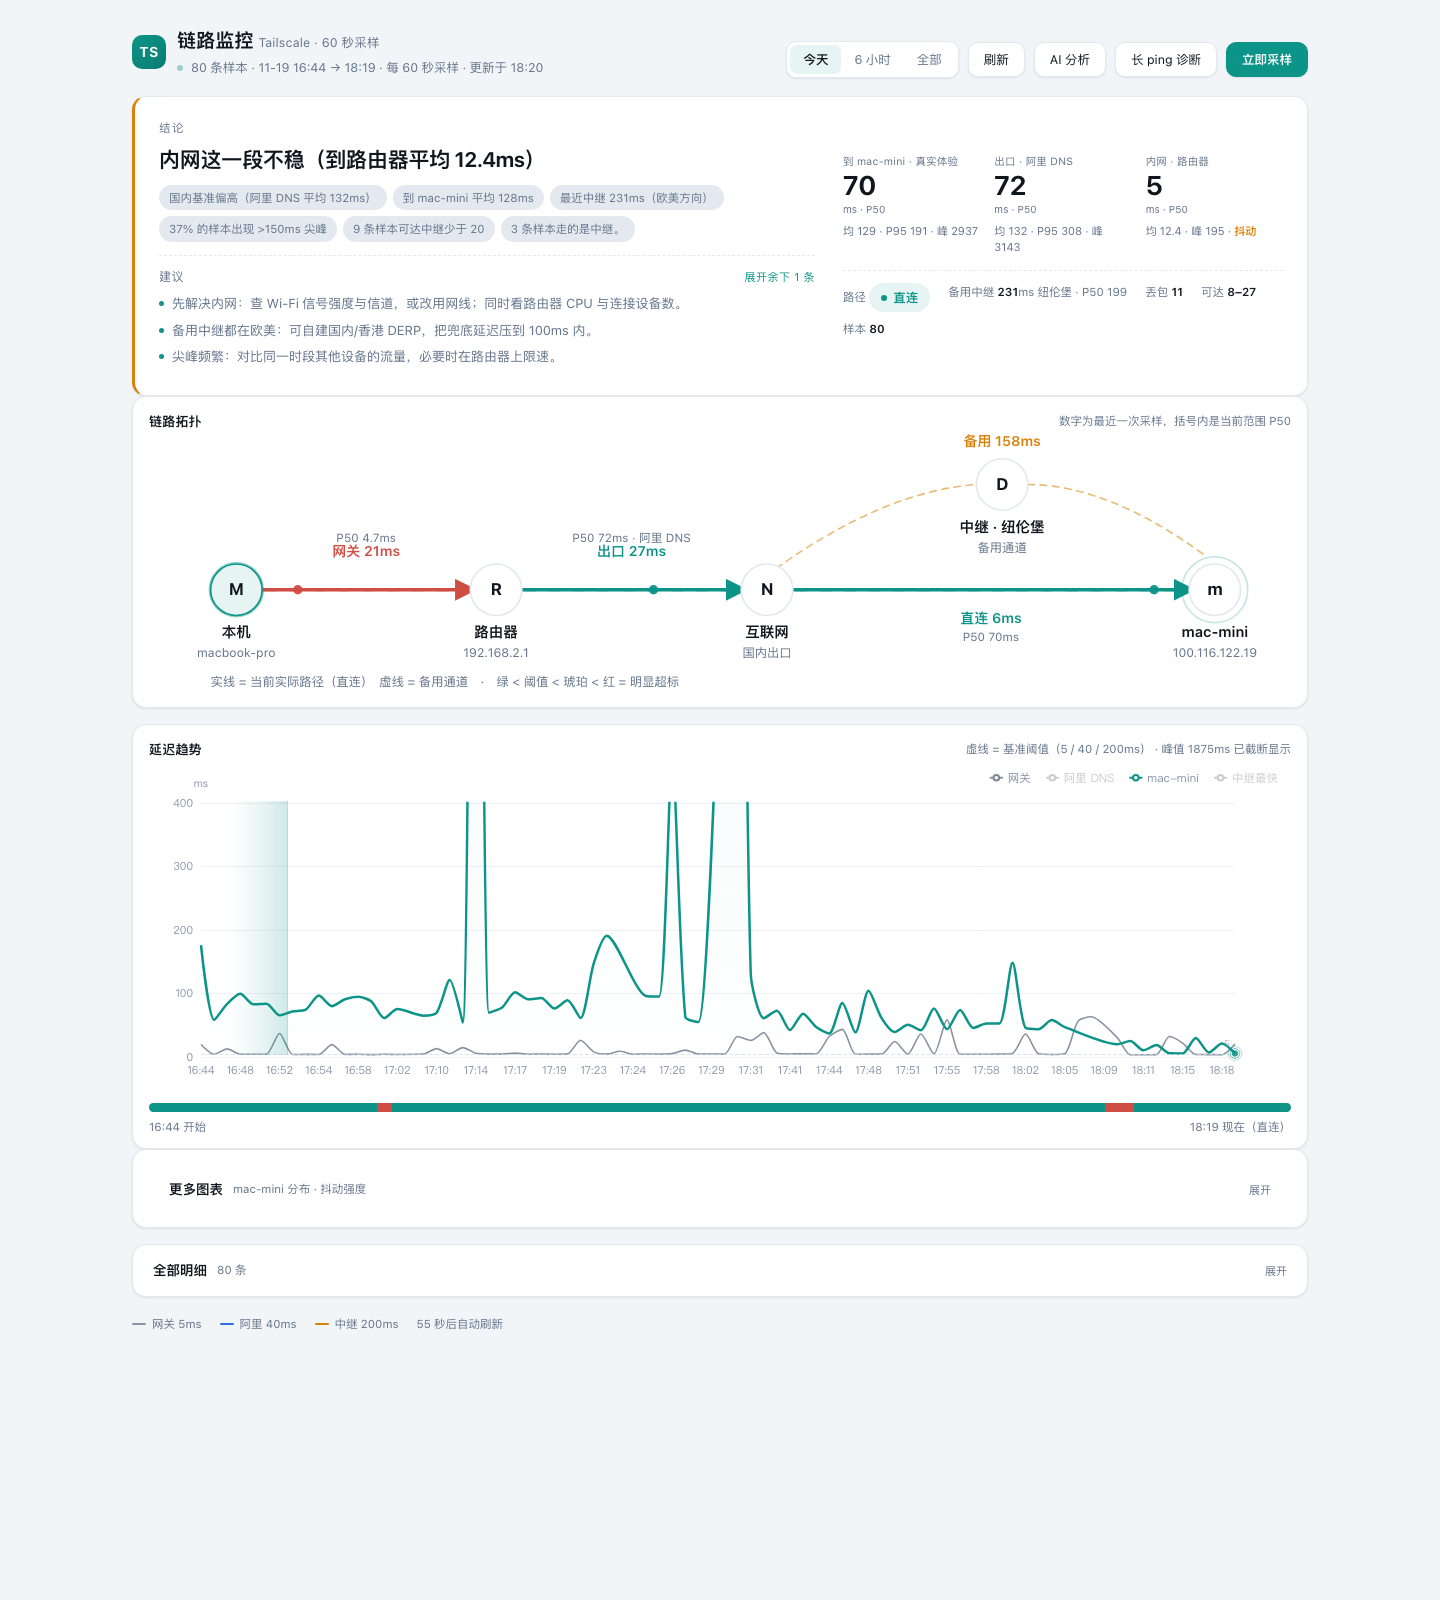
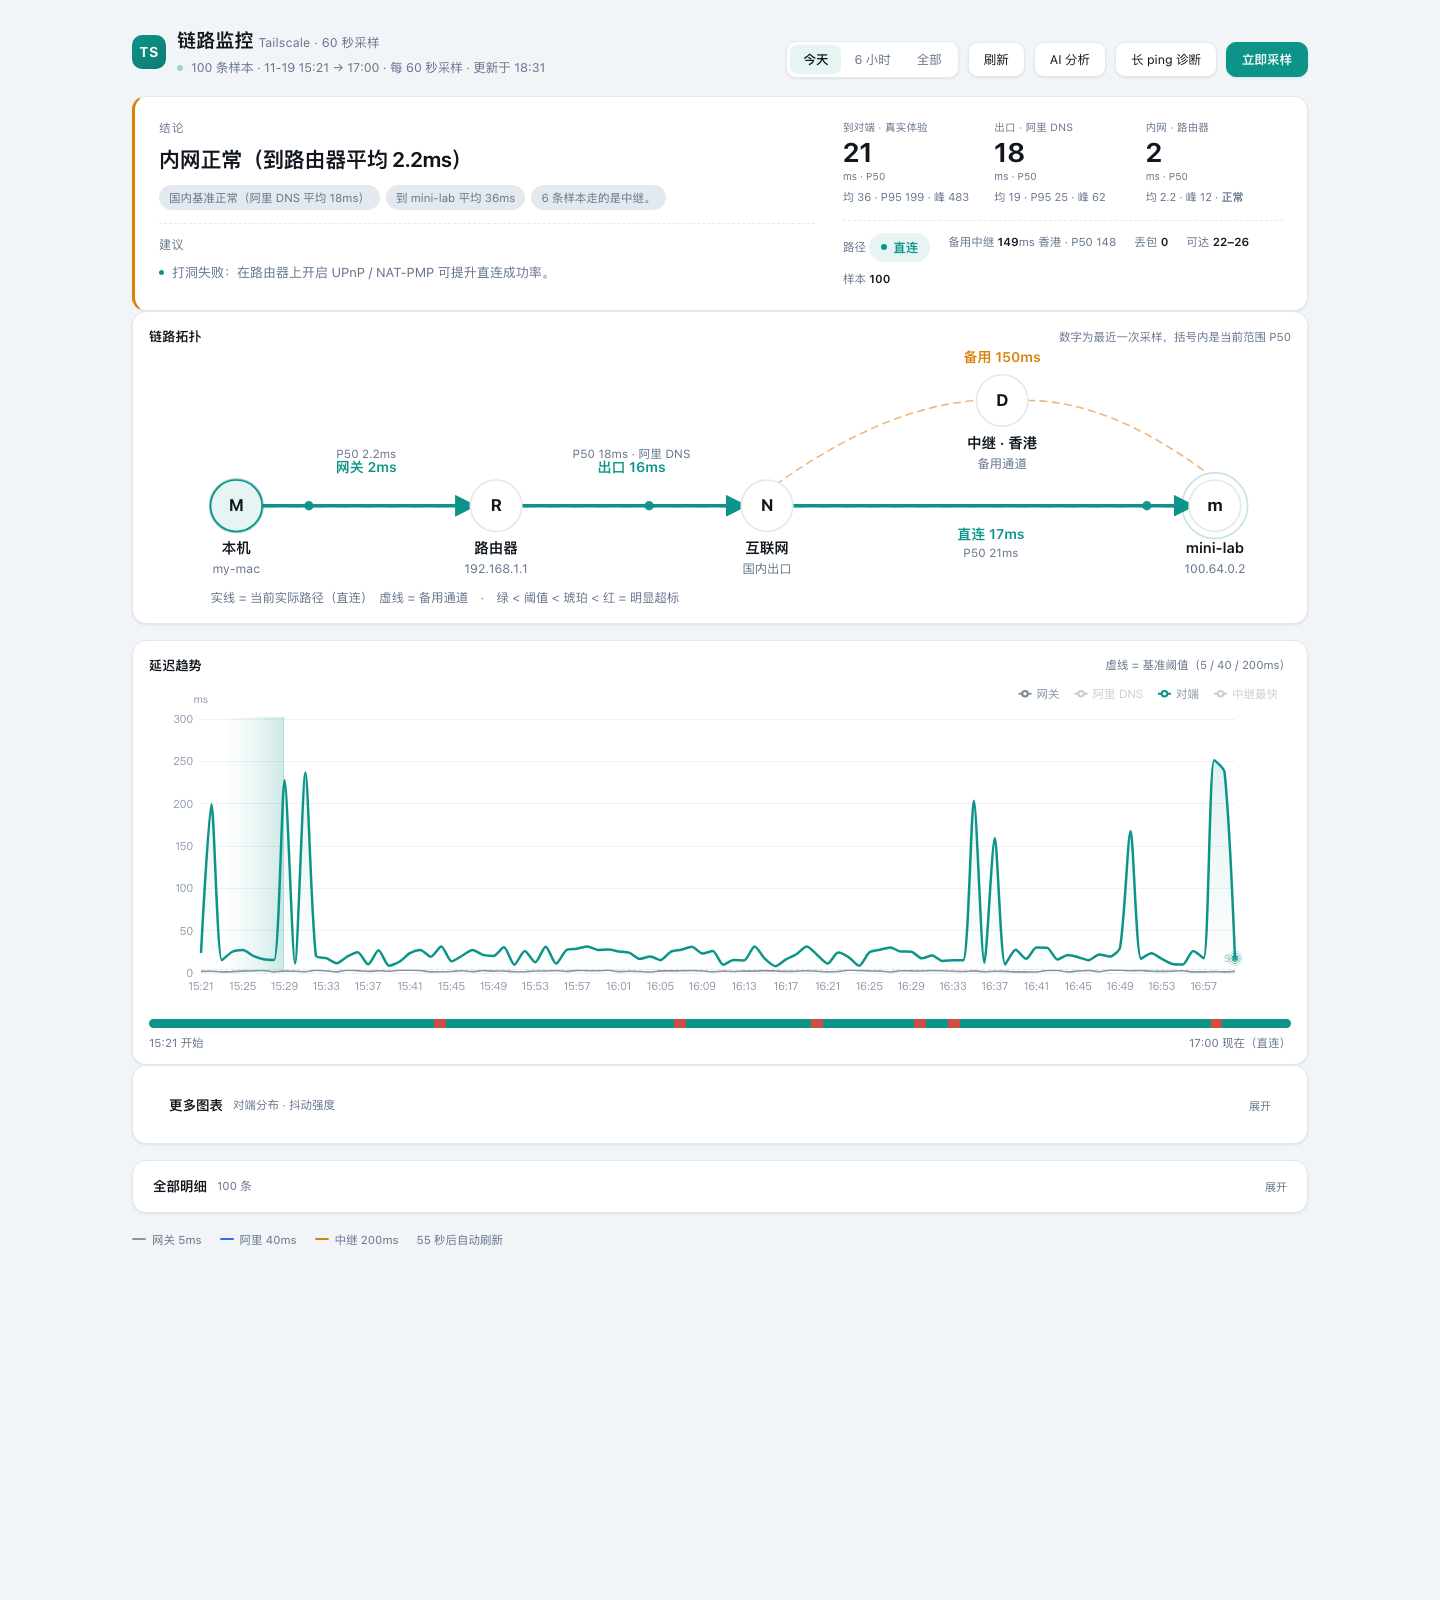
feat(config): 个性化配置外置到 config.env，移除仓库中的真实地址
- 新增 config.env.example（PEER_HOST/PEER_NAME/SELF_NAME/ALI_HOST/GATEWAY_FALLBACK）
- server.py / netcheck-watch.sh / index.html 全部改为读配置，拓扑与文案不再硬编码
- AI 摘要去掉运营商、CPE、公网 IP 等个人化描述
- 截图替换为合成演示数据，删除含真实地址的 long-ping 图
- .gitignore 排除 config.env

diff --git a/app/index.html b/app/index.html
@@ -273,7 +273,7 @@
     </div>
     <div class="hero2-right">
       <div class="hs-row">
-        <div class="hs"><em>到 mac-mini · 真实体验</em><b id="k-mm">—</b><u>ms · P50</u>
+        <div class="hs"><em>到对端 · 真实体验</em><b id="k-mm">—</b><u>ms · P50</u>
           <i>均 <span id="k-mm-avg">—</span> · P95 <span id="k-mm-p95">—</span> · 峰 <span id="k-mm-peak">—</span></i></div>
         <div class="hs"><em>出口 · 阿里 DNS</em><b id="k-ali">—</b><u>ms · P50</u>
           <i>均 <span id="k-ali-avg">—</span> · P95 <span id="k-ali-p95">—</span> · 峰 <span id="k-ali-peak">—</span></i></div>
@@ -304,10 +304,10 @@
   </div>
 
   <details class="card panel fold" style="margin-bottom:16px">
-    <summary>更多图表<span>mac-mini 分布 · 抖动强度</span></summary>
+    <summary>更多图表<span>对端分布 · 抖动强度</span></summary>
     <div class="fold-grid">
       <div>
-        <div class="panel-head"><h2>mac-mini 分布</h2><span>样本次数</span></div>
+        <div class="panel-head"><h2>对端分布</h2><span>样本次数</span></div>
         <div id="dist" class="mini-chart"></div>
       </div>
       <div>
@@ -492,8 +492,8 @@ function drawMain(rows){
     backgroundColor:'transparent',
     grid:{left:52, right:56, top:42, bottom:34},
     legend:{top:6, right:8, itemWidth:13, itemHeight:7, itemGap:14,
-            data:['网关','阿里 DNS','mac-mini','中继最快'],
-            selected:{'网关':true,'阿里 DNS':false,'mac-mini':true,'中继最快':false},
+            data:['网关','阿里 DNS','对端','中继最快'],
+            selected:{'网关':true,'阿里 DNS':false,'对端':true,'中继最快':false},
             textStyle:{color:axisInk(), fontSize:11.5}},
     tooltip:{trigger:'axis', backgroundColor:isDark()?'#1b222c':'#fff', borderColor:isDark()?'#2b3542':'#e4e9f0',
              textStyle:{color:isDark()?'#e8edf4':'#10161d', fontSize:12},
@@ -508,7 +508,7 @@ function drawMain(rows){
     series:[
       Object.assign(mk('网关', 'gateway_avg', COLORS.gw), {markLine:rule(5, '#cfd7e2')}),
       Object.assign(mk('阿里 DNS', 'ali_avg', COLORS.ali), {markLine:rule(40, 'rgba(47,111,237,.45)')}),
-      mk('mac-mini', 'macmini_avg', COLORS.mm, true),
+      mk('对端', 'macmini_avg', COLORS.mm, true),
       {
         type:'effectScatter', showSymbol:true, symbolSize:5, z:5, silent:true,
         rippleEffect:{period:3.5, scale:3.5, brushType:'stroke'},
@@ -670,7 +670,7 @@ function renderTopo(s, last){
   const gwKey = lv(gwNow, 5, 10), derpKey = lv(derpNow, 150, 250);
   const aliC = C[aliKey], mmC = C[mmKey], gwC = C[gwKey], derpC = C[derpKey];
 
-  const gwIp = (last && last.gateway_ip) || '192.168.66.1';
+  const gwIp = (last && last.gateway_ip) || '—';
 
   const html = `
   <svg viewBox="0 0 ${W} ${H}" xmlns="http://www.w3.org/2000/svg">
@@ -680,12 +680,12 @@ function renderTopo(s, last){
               orient="auto"><path d="M0 0L10 5L0 10z" fill="${C[k]}"/></marker>`).join('')}
     </defs>
 
-    <!-- 主路径：本机 → 路由器 → 互联网 → mac-mini -->
+    <!-- 主路径：本机 → 路由器 → 互联网 → 对端 -->
     ${line(X[0] + R, X[1] - R, gwKey, true)}
     ${line(X[1] + R, X[2] - R, aliKey, true)}
     ${line(X[2] + R, X[3] - R, directNow ? mmKey : 'mute', directNow)}
 
-    <!-- 备用通道：互联网 ⇢ 中继 ⇢ mac-mini -->
+    <!-- 备用通道：互联网 ⇢ 中继 ⇢ 对端 -->
     <path d="M ${X[2] + 8} ${Y - R + 4} Q ${(X[2] + relayX) / 2} ${relayY + 6}, ${relayX - R} ${relayY}"
           fill="none" stroke="${derpC}" stroke-width="${directNow ? 1.4 : 2.6}"
           stroke-dasharray="${directNow ? '6 5' : '9 6'}" opacity="${directNow ? .55 : .95}" stroke-linecap="round"/>
@@ -707,11 +707,11 @@ function renderTopo(s, last){
 
     <circle id="ringA" cx="${X[0]}" cy="${Y}" r="${R}" fill="none"
             stroke="${C.ok}" stroke-width="1.5" opacity=".55"/>
-    ${node(X[0], Y, 'M', '本机', 'macbook-pro', true)}
+    ${node(X[0], Y, 'M', '本机', s.self_name || '', true)}
     ${node(X[1], Y, 'R', '路由器', gwIp, false)}
     ${node(X[2], Y, 'N', '互联网', '国内出口', false)}
     <circle id="ringB" cx="${X[3]}" cy="${Y}" r="${R}" fill="none" stroke="${mmC}" stroke-width="1.5" opacity=".55"/>
-    ${node(X[3], Y, 'm', 'mac-mini', '100.116.122.19', false)}
+    ${node(X[3], Y, 'm', s.peer_name || '对端', s.peer_host || '', false)}
     ${node(relayX, relayY, 'D', '中继 · ' + region(L.nearest_derp || s.derp_region), (directNow ? '备用通道' : '正在使用'), false)}
 
     <text class="t-legend" x="${X[0] - R}" y="${H - 10}">

diff --git a/app/server.py b/app/server.py
@@ -18,6 +18,36 @@ APP_DIR = os.path.dirname(os.path.abspath(__file__))
 ROOT_DIR = os.path.dirname(APP_DIR)
 LOG = os.path.join(ROOT_DIR, "netcheck-log.csv")
 WATCH = os.path.join(ROOT_DIR, "netcheck-watch.sh")
+CONFIG = os.path.join(ROOT_DIR, "config.env")
+
+
+def _load_config():
+    """读取 config.env（键=值，# 注释）。仓库里只提交 config.env.example，
+    真实的对端地址、网关等信息留在本机，不进版本库。"""
+    cfg = {
+        "PEER_HOST": "",            # 对端 Tailscale 地址（IP 或 MagicDNS 名）
+        "PEER_NAME": "对端设备",
+        "SELF_NAME": "",            # 留空则用系统 hostname
+        "ALI_HOST": "223.5.5.5",
+        "GATEWAY_FALLBACK": "",
+    }
+    if os.path.exists(CONFIG):
+        try:
+            for line in open(CONFIG, encoding="utf-8"):
+                line = line.strip()
+                if not line or line.startswith("#") or "=" not in line:
+                    continue
+                k, v = line.split("=", 1)
+                cfg[k.strip()] = v.strip().strip('"').strip("'")
+        except Exception:
+            pass
+    for k in list(cfg):
+        if os.environ.get(k):
+            cfg[k] = os.environ[k]
+    return cfg
+
+
+CFG = _load_config()
 
 FIELDS = ["time", "nearest_derp", "derp_fastest", "derp_fastest_ms", "derp_reachable",
           "ali_loss", "ali_avg", "ali_max", "macmini_loss", "macmini_avg", "macmini_max",
@@ -129,7 +159,7 @@ def summarize(rows):
         else:
             conclusions.append("国内基准正常（阿里 DNS 平均 %.0fms）" % a)
     if m is not None:
-        conclusions.append("到 mac-mini 平均 %.0fms" % m)
+        conclusions.append("到 %s 平均 %.0fms" % (CFG["PEER_NAME"], m))
     if d is not None and d > 150:
         conclusions.append("最近中继 %.0fms（欧美方向）" % d)
         advice.append("备用中继都在欧美：可自建国内/香港 DERP，把兜底延迟压到 100ms 内。")
@@ -161,6 +191,8 @@ def summarize(rows):
                    "avg": worst.get("macmini_avg")} if worst else None),
         "verdict": "；".join(conclusions) + "。",
         "advice": advice,
+        "self_name": _self_name(), "peer_name": CFG["PEER_NAME"],
+        "peer_host": CFG["PEER_HOST"], "ali_host": CFG["ALI_HOST"],
         "last_sample": _last_sample,
     }
 
@@ -170,11 +202,15 @@ def summarize(rows):
 _LONG = {"job": None, "lock": threading.Lock()}
 
 
+def _self_name():
+    return CFG["SELF_NAME"] or os.uname().nodename
+
+
 def _gateway_ip():
     for r in reversed(read_rows()):
         if r.get("gateway_ip"):
             return r["gateway_ip"]
-    return "192.168.66.1"
+    return CFG["GATEWAY_FALLBACK"] or "—"
 
 
 def _ping_target(target, count, interval):
@@ -230,8 +266,8 @@ def start_longping(count=40, interval=0.3):
             "done_count": 0,
             "targets": [
                 {"name": "路由器网关", "kind": "gateway", "host": gw},
-                {"name": "阿里 DNS", "kind": "ali", "host": "223.5.5.5"},
-                {"name": "mac-mini", "kind": "mini", "host": "100.116.122.19"},
+                {"name": "国内基准", "kind": "ali", "host": CFG["ALI_HOST"]},
+                {"name": CFG["PEER_NAME"], "kind": "mini", "host": CFG["PEER_HOST"]},
             ],
         }
         _LONG["job"] = job
@@ -255,18 +291,16 @@ def _ai_digest(rng="today"):
     s = summarize(rows)
     lines = []
     lines.append("窗口：%s – %s，共 %d 条采样（60 秒一条）。" % (s.get("start") or "—", s.get("end") or "—", s.get("count") or 0))
-    lines.append("设备：本机 macbook-pro（Tailscale 100.92.15.30，公网出口 171.12.68.212，中国河南电信，"
-                 "出口为 CPE，NAT 为对称型）；对端 mac-mini（100.116.122.19）；iPhone 长期离线不计入。")
-    lines.append("局域网：路由器网关 %s（主机名 nradio.in，疑似 4G/5G CPE 路由模式，NAT 对称型）；"
-                 "本机第二网卡 en6 无外网，实际走 Wi-Fi。"
-                 % _gateway_ip())
+    lines.append("设备：本机 %s；对端 %s（%s）；国内基准 %s。"
+                 % (_self_name(), CFG["PEER_NAME"], CFG["PEER_HOST"] or "未配置", CFG["ALI_HOST"]))
+    lines.append("局域网：当前网关 %s。" % _gateway_ip())
     lines.append("路径：%d 次直连 / %d 次中继；当前路径 %s（最近判定时间 %s）。"
                  % (s.get("direct") or 0, s.get("relay") or 0, s.get("path_now") or "未知", s.get("path_last_time") or "—"))
     lines.append("")
     lines.append("关键指标（P50 / 平均 / P95 / 峰值）：")
     lines.append("- 路由器网关：" + " / ".join([_n(s.get("gw_p50")), _n(s.get("gw_avg")), _n(s.get("gw_p95")), _n(s.get("gw_peak"))]))
-    lines.append("- 阿里 DNS 223.5.5.5（国内出口基准）：" + " / ".join([_n(s.get("ali_p50")), _n(s.get("ali_avg")), _n(s.get("ali_p95")), _n(s.get("ali_peak"))]))
-    lines.append("- mac-mini（Tailscale 直连）：" + " / ".join([_n(s.get("mm_p50")), _n(s.get("mm_avg")), _n(s.get("mm_p95")), _n(s.get("mm_peak"))]))
+    lines.append("- 国内基准 %s：" % CFG["ALI_HOST"]  + " / ".join([_n(s.get("ali_p50")), _n(s.get("ali_avg")), _n(s.get("ali_p95")), _n(s.get("ali_peak"))]))
+    lines.append("- %s（Tailscale 直连）：" % CFG["PEER_NAME"]  + " / ".join([_n(s.get("mm_p50")), _n(s.get("mm_avg")), _n(s.get("mm_p95")), _n(s.get("mm_peak"))]))
     lines.append("- 备用中继最快延迟：" + _n(s.get("derp_p50")) + "（区域 " + str(s.get("derp_region") or "未知") + "）")
     lines.append("")
     lines.append("抖动与丢包：峰值/平均抖动比 %s；出现丢包的采样 %s 条；中继可达数 %s–%s（低于 20 视为国际出口有丢包）；"

diff --git a/README.md b/README.md
@@ -37,10 +37,13 @@
 git clone <repo> tailscale-watch
 cd tailscale-watch
 
-make check          # 语法自检
-make sample         # 采一条样本，生成 netcheck-log.csv
-make run            # 启动面板，浏览器打开 http://127.0.0.1:8767
+cp config.env.example config.env   # 填对端 Tailscale 地址（PEER_HOST）
+make check                         # 语法自检
+make sample                        # 采一条样本，生成 netcheck-log.csv
+make run                           # 启动面板 http://127.0.0.1:8767
 ```
+
+`config.env` 是本机私有配置（对端地址、显示名、基准目标），已在 `.gitignore` 中排除，仓库里只有示例文件。
 
 想让它常驻（开机自启、每 60 秒采样）：
 
@@ -53,14 +56,26 @@ make uninstall      # 卸载
 
 端口默认 **8767**，可用 `PANEL_PORT=9000 make run` 覆盖（改了端口记得同步 `.panel-port` 与 plist）。
 
+## 配置
+
+所有个性化项都在 `config.env`（从 `config.env.example` 复制）：
+
+| 键 | 说明 | 示例 |
+|---|---|---|
+| `PEER_HOST` | 对端设备地址（Tailscale IP 或 MagicDNS 名） | `100.64.0.2` |
+| `PEER_NAME` | 对端在界面上的显示名 | `mac-mini` |
+| `SELF_NAME` | 本机显示名，留空则用系统 hostname | `my-mac` |
+| `ALI_HOST` | 国内出口基准目标 | `223.5.5.5` |
+| `GATEWAY_FALLBACK` | 采样拿不到网关时的兜底显示 | `192.168.1.1` |
+
+同名环境变量优先级高于文件，便于临时覆盖。
+
 ## 界面怎么看
 
 从上到下只有四块，越靠上越重要：
 
 1. **结论条**：左边一句人话结论 + 补充标签 + 至多 3 条建议；右边三个大数字——对端 P50（真实体验）、出口 P50（网速基准）、网关 P50（内网底色）。看这三个数基本就够。
 2. **链路拓扑**：本机 → 路由器 → 互联网 → 对端，实线为主路径、虚线为备用中继弧线；每段标最近一次延迟，颜色按阈值变色，光点沿线路流动。
-
-   ![链路拓扑](docs/screenshots/dashboard.png)
 
 3. **延迟趋势**：默认只画两条线（对端 + 网关），出口与中继在图例里灰着，点一下才出现；底部色带显示逐次"直连 / 中继"。
 4. **折叠区**：「更多图表」（分布、抖动强度）、「全部明细」（逐条采样），默认收起。
@@ -80,8 +95,6 @@ make uninstall      # 卸载
 
 点右上角「长 ping 诊断」，同时向路由器、阿里 DNS、对端各发 40 个包（0.3 秒间隔，约 12 秒），给出发包 / 丢包 / 最小 / 平均 / 最大 / 抖动（stddev）并自动判定。
 
-![长 ping 诊断](docs/screenshots/long-ping.png)
-
 平均值会被单个尖峰拉高，所以判定同时看抖动——抖动能直接看出链路稳不稳。
 
 ## AI 分析（可选）
@@ -98,6 +111,8 @@ make uninstall      # 卸载
 出完可以继续追问，回答是流式的。
 
 ![AI 分析](docs/screenshots/ai-chat.png)
+
+> 本文所有截图均来自**合成演示数据**（`docs/screenshots` 里的地址为占位值），不含任何真实网络信息。
 
 > **隐私**：摘要会发到 DeepSeek 云端，包含延迟数字、设备名、内网 IP，不含任何流量内容。介意就别启用 AI 功能——其它功能完全离线。
 
@@ -121,6 +136,7 @@ tailscale-watch/
 │   ├── stop-panel.command   双击停止
 │   ├── install-launchd.sh   安装常驻服务
 │   └── uninstall-launchd.sh 卸载
+├── config.env.example      配置模板（复制为 config.env）
 ├── netcheck-watch.sh        采样器（--once / --daemon / --bg / --stop）
 ├── netcheck-report.py       中文命令行报表（--today / --tail N）
 ├── Makefile

diff --git a/CHANGELOG.md b/CHANGELOG.md
@@ -5,12 +5,14 @@
 ## [Unreleased]
 
 ### Added
+- `config.env.example`：对端地址/显示名/基准目标外置到本地配置，仓库不含任何真实网络信息
 - `scripts/install-launchd.sh` / `uninstall-launchd.sh`，用 `__PROJECT_DIR__` 占位符渲染 plist，仓库可移植
 - `Makefile`（`make run` / `make install` / `make check` / `make report`）
 - `docs/DEVELOPMENT.md`：可复刻整套系统的开发提示词（含阈值口径与踩坑清单）
 - `CONTRIBUTING.md`、`LICENSE`（MIT）、`.gitignore`
 
 ### Changed
+- 拓扑/结论文案/长 ping 目标/AI 摘要全部改为读 `config.env`，不再硬编码设备名与地址
 - 目录开源化重排：`docs/` `scripts/` `launchd/`，截图移入 `docs/screenshots/`
 - launchd label 统一为 `io.github.tailscale-watch.{agent,panel}`
 - 面板默认端口统一为 8767（可用 `PANEL_PORT` 覆盖）
